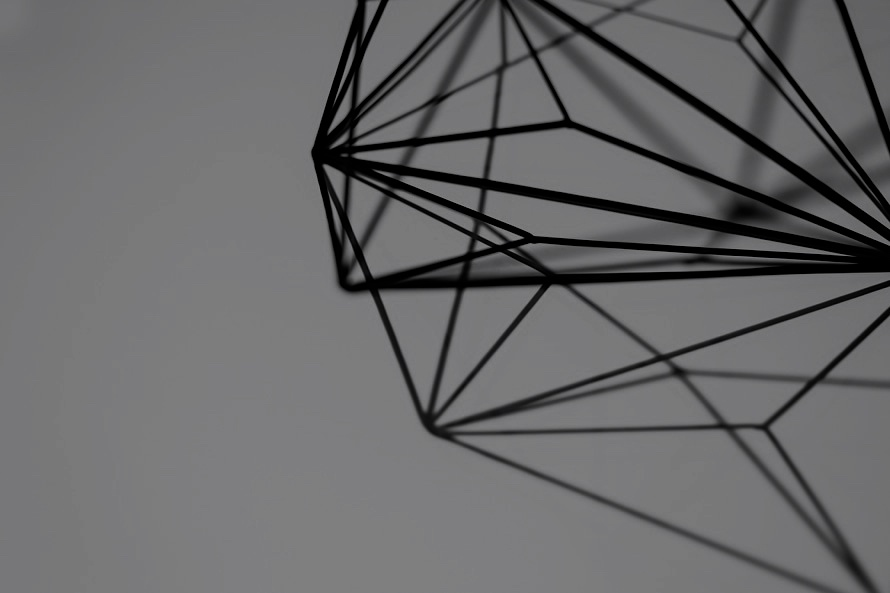
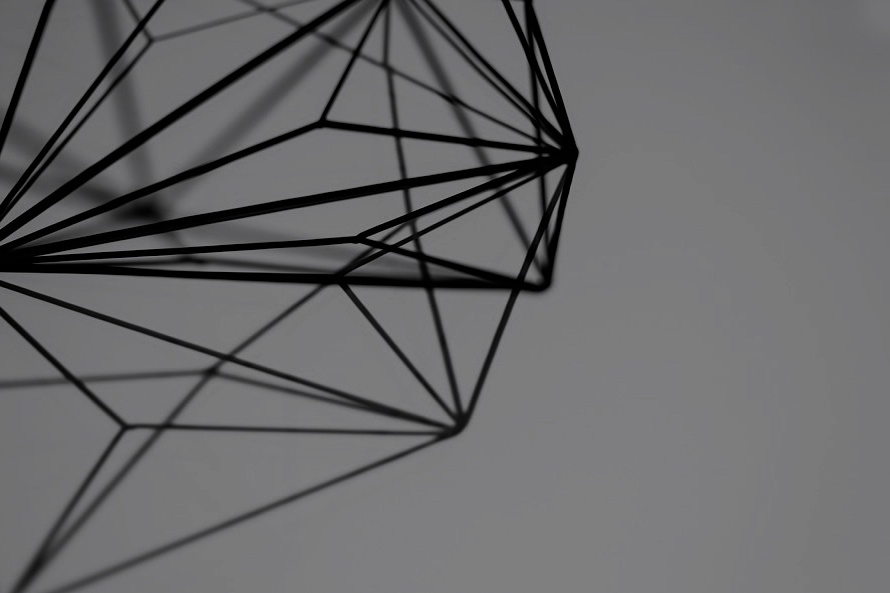
switched layout of hero background image and finished some mobile responsiveness tweaks

diff --git a/index.html b/index.html
@@ -29,10 +29,10 @@
     <!-- HERO SECTION -->
     <section class="hero home-section">
         <div class="content">
-            <h3>Hi there! I'm Kyle Stokes.</h3>
-            <h3>I'm a Full-Stack Web Developer.</h3>
+            <h3>Kyle Stokes</h3>
+            <h3>//</h3>
+            <h3>Full-Stack Developer</h3>
         </div>
-        <div class="hero-background"></div>
     </section>
 
     <!-- ABOUT -->

diff --git a/style.css b/style.css
@@ -77,13 +77,11 @@ body {
 }
 
 .content {
-    /* max-width: 800px; */
-    margin: 0 auto;
-    padding: 0 20px;
+    position: absolute;
+    right: 75px;
 }
 
 .hero {
-    position: relative;
     background: #333333;
     color: black;
     height: 100vh;
